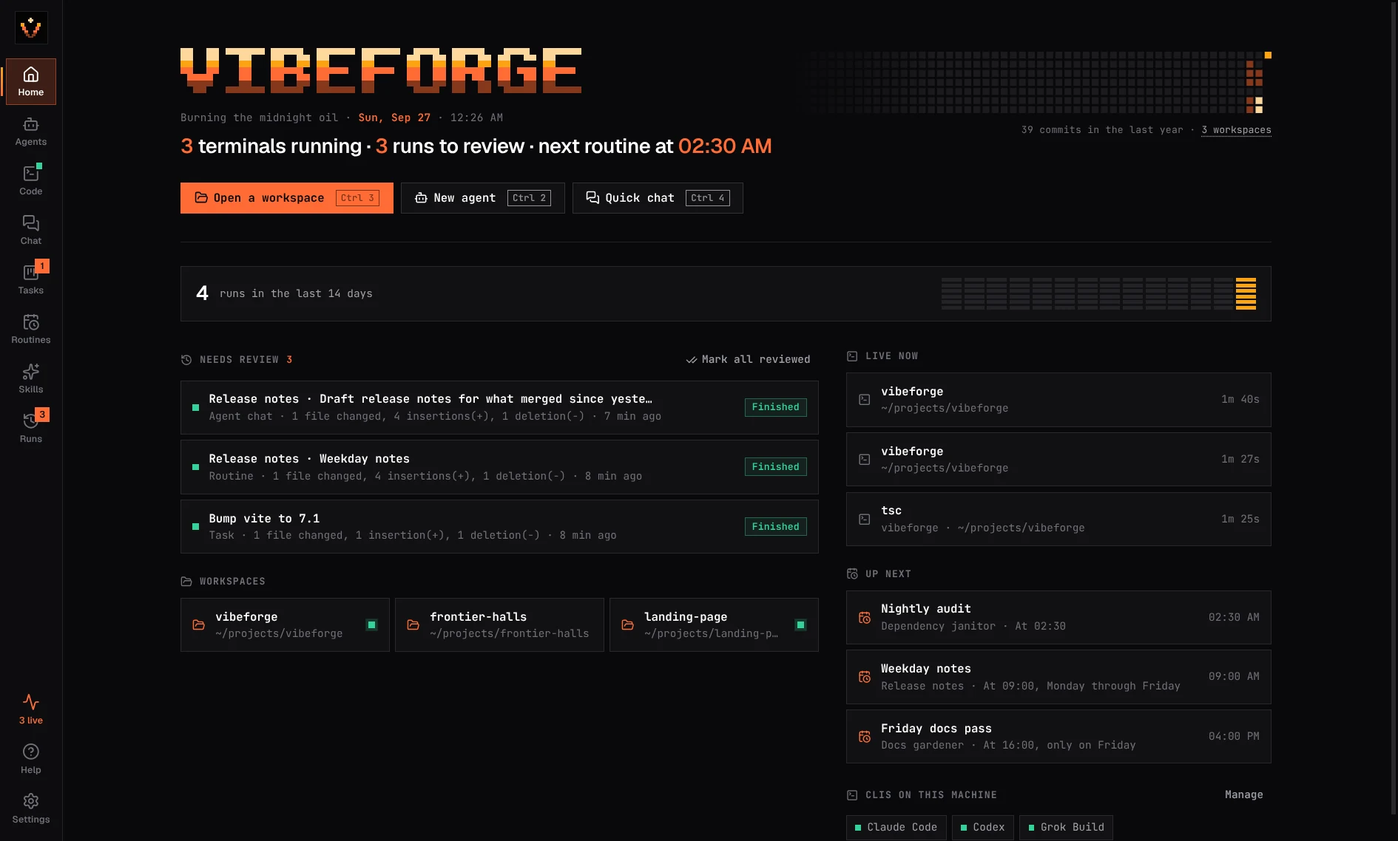
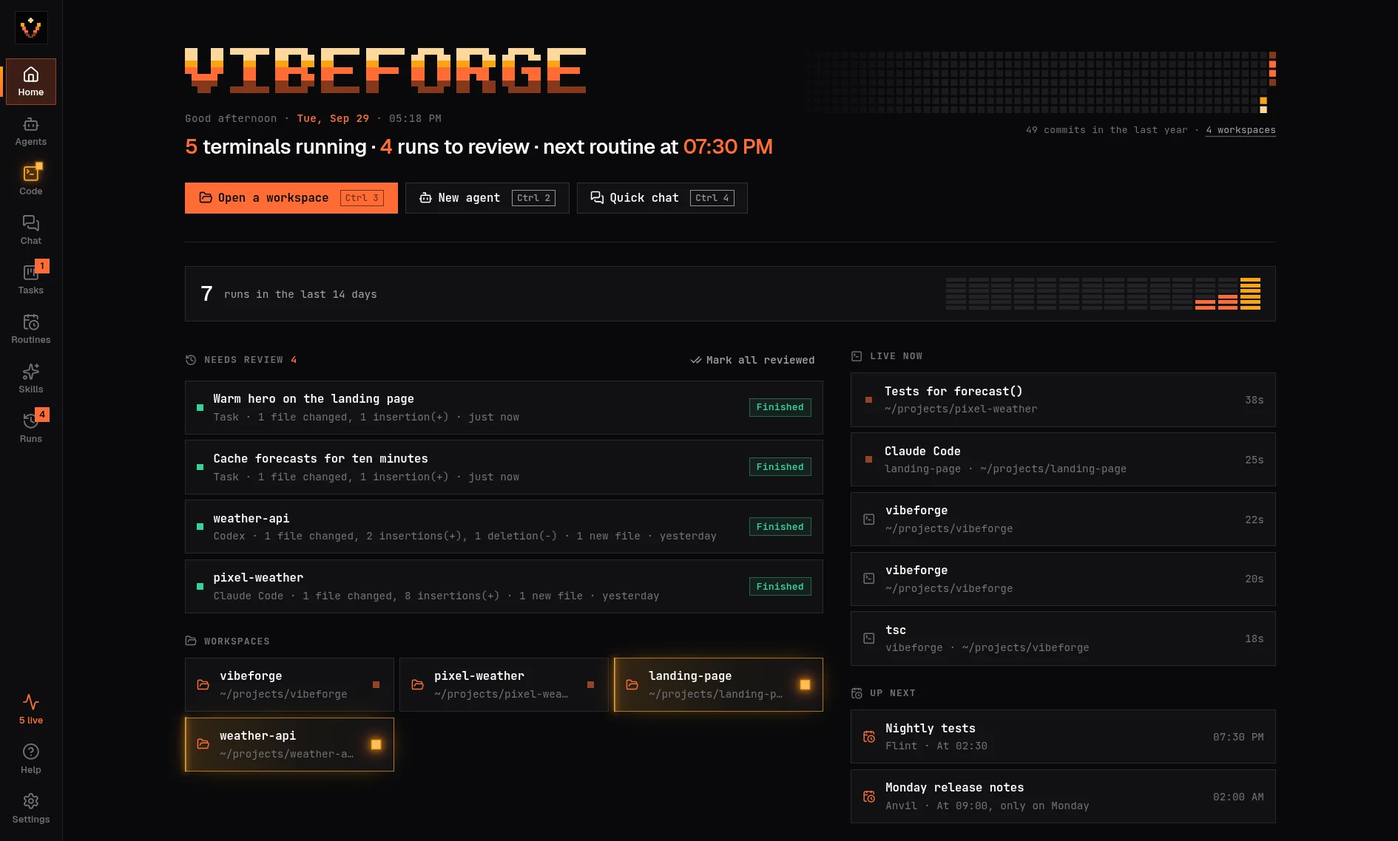
docs(site): make the page match the app, and retake the tour on 1.2 (#12)
## Summary

Every claim on vibe-forge.net and in the README, checked against the
code, then brought up to 1.2.0. Two commits: the facts and new cards,
then new tour screenshots.

**Wrong, now fixed**
- The updater "only asks GitHub for the newest release number": it also
fetches the release notes (`src/core/updates.ts`), which the Update
dialog shows.
- The Private card didn't mention the opt-in network features: plan
limits (Anthropic, xAI, Moonshot) and the GitHub graph through `gh`. It
now says anything that goes online is off until you turn it on.
- "Plain Ctrl V reaches the program": Ctrl+V pastes text; only an image
on its own reaches the program (`src/ui/terminal-keys.ts`), which is how
screenshots paste into Claude Code.
- "The prompt reaches the CLI as a single argument, nothing is typed":
true when the CLI has a prompt flag; Kimi, Crush and Hermes get it
pasted once (`planLaunch`).
- The keyboard list skipped Ctrl+K; it now follows the app's own
shortcut sheet, plus Ctrl+Z.

**Out of date, now current (1.1 and 1.2)**
- Code: links in a terminal open in the side browser, one page per
workspace (was "a browser dock for localhost").
- Runs and "under the hood": the diff is saved the moment a run ends.
- Two new cards filling a grid row: "It glows when it's your turn" (a
small animated mock of the waiting row, same values as the app's ember
glow) and "Undo, not 'are you sure?'". The glow card's sound and
[…]

diff --git a/site/index.html b/site/index.html
@@ -21,7 +21,7 @@
     <link rel="preconnect" href="https://fonts.googleapis.com" />
     <link rel="preconnect" href="https://fonts.gstatic.com" crossorigin />
     <link href="https://fonts.googleapis.com/css2?family=Geist:wght@400..700&family=JetBrains+Mono:ital,wght@0,400..800;1,400&display=swap" rel="stylesheet" />
-    <link rel="stylesheet" href="styles.css?v=0.8.0" />
+    <link rel="stylesheet" href="styles.css?v=1.2.0" />
   </head>
   <body>
     <svg class="sprite" aria-hidden="true" focusable="false">
@@ -316,7 +316,7 @@
             <div class="card-copy">
               <span class="card-icon"><svg><use href="#i-square-terminal" /></svg></span>
               <h3>Tiled like your desktop</h3>
-              <p>Split terminals side by side, a file tree that drops paths into the focused pane, and a browser dock for localhost.</p>
+              <p>Split terminals side by side, a file tree that drops paths into the focused pane, and a browser beside them: click a link in a terminal and it opens there, one page per workspace.</p>
             </div>
             <div class="art art-tiles">
               <div class="tile"><i>shell</i><code>npm run dev</code><code class="dim">➜ localhost:5173</code></div>
@@ -375,7 +375,7 @@
               <span class="card-icon"><svg><use href="#i-git-compare" /></svg></span>
               <h3>Review everything they touched</h3>
               <p>
-                Every run keeps its final screen, a transcript, the exact prompt and the git diff since it began. <b>Continue</b> reopens the very same
+                Every run keeps its final screen, a transcript, the exact prompt and the git diff since it began, saved the moment it ends so later edits stay out of it. <b>Continue</b> reopens the very same
                 session when the CLI printed one (<code>claude --resume</code>, <code>grok --resume</code>, …).
               </p>
             </div>
@@ -414,7 +414,7 @@
             <div class="card-copy">
               <span class="card-icon"><svg><use href="#i-terminal" /></svg></span>
               <h3>Real terminals, not a chat skin</h3>
-              <p>WebGL xterm, split and dragged into place. Plain <kbd>Ctrl</kbd> <kbd>V</kbd> reaches the program, so screenshots paste into Claude Code like in ghostty.</p>
+              <p>WebGL xterm, split and dragged into place. <kbd>Ctrl</kbd> <kbd>V</kbd> pastes text, and a screenshot on its own goes straight to the program, so images paste into Claude Code like in ghostty.</p>
             </div>
             <div class="art art-keys">
               <span class="keycap wide">Ctrl</span><span class="keycap-plus">+</span><span class="keycap">V</span>
@@ -425,7 +425,7 @@
             <div class="card-copy">
               <span class="card-icon"><svg><use href="#i-shield" /></svg></span>
               <h3>Private by construction</h3>
-              <p>No accounts, no keys, no telemetry. Agents, skills, routines and tasks are YAML and Markdown you can edit in Neovim.</p>
+              <p>No accounts, no keys, no telemetry. Anything that goes online, like plan limits or your GitHub graph, is off until you turn it on. Agents, skills, routines and tasks are YAML and Markdown you can edit in Neovim.</p>
             </div>
             <div class="art art-private">
               <span class="lock"><svg><use href="#i-lock" /></svg></span>
@@ -437,7 +437,7 @@
             <div class="card-copy">
               <span class="card-icon"><svg><use href="#i-refresh" /></svg></span>
               <h3>Updates itself, in plain sight</h3>
-              <p>When a release is out, Help gets a dot. Update shows the notes, runs the installer in a terminal you can watch, and restarts. The only thing it ever asks GitHub is the newest release number.</p>
+              <p>When a release is out, Help gets a dot. Update shows the notes, runs the installer in a terminal you can watch, and restarts. All it asks GitHub for is the newest release and its notes.</p>
             </div>
             <div class="art art-update" data-update-art>
               <div class="up-head"><b>Update VibeForge</b><span class="chip ok">1.2.1</span></div>
@@ -449,6 +449,30 @@
                 <div class="t-ok"><span>✓</span> VibeForge 1.2.1 is installed.</div>
               </div>
               <div class="up-foot"><span>Updated. Restart to start using 1.2.1.</span><span class="m-primary"><svg><use href="#i-rotate-ccw" /></svg>Restart</span></div>
+            </div>
+          </article>
+
+          <article class="card wide reveal" data-glow>
+            <div class="card-copy">
+              <span class="card-icon"><svg><use href="#i-activity" /></svg></span>
+              <h3>It glows when it's your turn</h3>
+              <p>When a CLI or agent goes quiet where you aren't looking, its workspace or chat lights up like an ember, and so does the view's icon in the rail. With VibeForge in the background, two soft knocks and a notification bring you there.</p>
+            </div>
+            <div class="art art-ember" aria-hidden="true">
+              <div class="em-row"><i class="em-px open"></i><b>pixel-weather</b><span>~/projects/pixel-weather</span></div>
+              <div class="em-row wants"><i class="em-px lit"></i><b>landing-page</b><span>Claude Code · your turn</span></div>
+              <div class="em-row"><i class="em-px work"></i><b>weather-api</b><span>Codex is working</span></div>
+            </div>
+          </article>
+
+          <article class="card reveal" data-glow>
+            <div class="card-copy">
+              <span class="card-icon"><svg><use href="#i-rotate-ccw" /></svg></span>
+              <h3>Undo, not "are you sure?"</h3>
+              <p>Deleting a chat, task, skill or routine happens at once. Undo on the toast, or <kbd>Ctrl</kbd> <kbd>Z</kbd>, puts it back.</p>
+            </div>
+            <div class="art art-undo" aria-hidden="true">
+              <div class="undo-toast"><span>Deleted Old notes</span><b>Undo</b></div>
             </div>
           </article>
 
@@ -471,7 +495,7 @@
         <div class="section-head reveal">
           <span class="kicker"><b>03</b> Tour</span>
           <h2>Not a mockup. The real desk.</h2>
-          <p>Screenshots of VibeForge 0.7.0 on a working day, in the Apex Forge theme.</p>
+          <p>Screenshots of VibeForge 1.2.0 on a working day, in the Apex Forge theme.</p>
         </div>
         <div class="tour reveal" data-tour>
           <div class="tour-tabs" role="tablist" aria-label="Screenshots">
@@ -481,13 +505,13 @@
           </div>
           <div class="tour-frame">
             <figure class="shot is-on">
-              <img src="assets/app-home.webp?v=0.7.0" width="1890" height="1138" alt="VibeForge's Home: the pixel wordmark beside a year of commits, three terminals running, three runs to review, a 14-day run chart, workspaces, the routines coming up next and the CLIs on this machine." />
+              <img src="assets/app-home.webp?v=1.2.0" width="1890" height="1138" alt="VibeForge's Home: the pixel wordmark beside a year of commits, five terminals running, four runs to review led by their projects, a 14-day run chart, workspaces with two glowing because their CLIs are waiting, the terminals live now and the routines coming up next." />
             </figure>
             <figure class="shot">
-              <img src="assets/app-code.webp?v=0.7.0" width="1890" height="1138" alt="Code mode: three tiled terminals in a project with git log, a diffstat and a TypeScript watch that its title bar names, split from the toolbar, with the file tree on the right." loading="lazy" />
+              <img src="assets/app-code.webp?v=1.2.0" width="1890" height="1138" alt="Code mode on the VibeForge repository: three tiled terminals with git log and its release tags, a diffstat from 1.1.0 to 1.2.0 in the focused pane and a TypeScript watch its title bar names, the unfocused panes dimmed, two other workspaces glowing in the list, and the file tree on the right." loading="lazy" />
             </figure>
             <figure class="shot">
-              <img src="assets/app-tasks.webp?v=0.7.0" width="1890" height="1138" alt="The task board with cards in To do, Review and Done, each assigned to an agent and a workspace." loading="lazy" />
+              <img src="assets/app-tasks.webp?v=1.2.0" width="1890" height="1138" alt="The task board with cards in To do, Running, Review and Done, each assigned to an agent and a workspace, the finished ones with their diff." loading="lazy" />
             </figure>
           </div>
           <p class="tour-caption" data-tour-caption><b>Home</b> What's live, what finished and needs a look, and what runs next.</p>
@@ -505,7 +529,7 @@
           <li class="reveal">
             <span class="flow-node">01</span>
             <h3>One argument, intact</h3>
-            <p>The brief, memory, skills and your prompt reach the CLI as a single argument. Nothing is typed into a TUI line by line.</p>
+            <p>The brief, memory, skills and your prompt reach the CLI as a single argument. The few CLIs without a prompt flag get it pasted in once, never typed line by line.</p>
           </li>
           <li class="reveal">
             <span class="flow-node">02</span>
@@ -515,7 +539,7 @@
           <li class="reveal">
             <span class="flow-node">03</span>
             <h3>A record when it ends</h3>
-            <p>Final screen, transcript and a git snapshot land in the run folder. Stop hangs up the process group, like closing a window.</p>
+            <p>Final screen, transcript and the full diff land in the run folder, frozen as it ends. Stop hangs up the process group, like closing a window.</p>
           </li>
           <li class="reveal">
             <span class="flow-node">04</span>
@@ -581,11 +605,11 @@
               <h2>Keys, like the rest of your desktop.</h2>
             </div>
             <dl class="keys">
+              <div><dt><kbd>Ctrl</kbd><kbd>K</kbd></dt><dd>Go to any agent, chat, workspace, task or skill</dd></div>
               <div><dt><kbd>Ctrl</kbd><kbd>1</kbd>…<kbd>8</kbd></dt><dd>Home, Agents, Code, Chat, Tasks, Routines, Skills, Runs</dd></div>
-              <div><dt><kbd>Ctrl</kbd><kbd>Shift</kbd><kbd>C</kbd>/<kbd>V</kbd></dt><dd>Copy and paste in a terminal</dd></div>
+              <div><dt><kbd>Ctrl</kbd><kbd>Shift</kbd><kbd>D</kbd>/<kbd>E</kbd></dt><dd>A new terminal on the right, or below</dd></div>
               <div><dt><kbd>Ctrl</kbd><kbd>Shift</kbd><kbd>M</kbd></dt><dd>Maximize the focused pane</dd></div>
-              <div><dt><kbd>Ctrl</kbd><kbd>Shift</kbd><kbd>B</kbd></dt><dd>Collapse the side panel</dd></div>
-              <div><dt><kbd>Ctrl</kbd><kbd>S</kbd></dt><dd>Save the open brief, memory or skill</dd></div>
+              <div><dt><kbd>Ctrl</kbd><kbd>Z</kbd></dt><dd>Undo a delete, while its toast is up</dd></div>
               <div><dt><kbd>Ctrl</kbd><kbd>Shift</kbd><kbd>/</kbd></dt><dd>Every shortcut on one sheet</dd></div>
             </dl>
           </div>
@@ -690,6 +714,6 @@ npm run build && ./scripts/vibeforge</pre>
       </p>
     </footer>
 
-    <script src="main.js?v=0.8.0" defer></script>
+    <script src="main.js?v=1.2.0" defer></script>
   </body>
 </html>

diff --git a/site/styles.css b/site/styles.css
@@ -1887,6 +1887,126 @@ h2 {
   font: 12px var(--mono);
 }
 
+/* ember: the "your turn" glow, as the app draws it (src/ui/styles/app.css, "ember glow") */
+
+.art-ember {
+  flex-direction: column;
+  gap: 6px;
+  padding: 14px;
+  border: 1px solid var(--line);
+  background: var(--bg);
+}
+
+.em-row {
+  position: relative;
+  display: grid;
+  grid-template-columns: 9px auto 1fr;
+  align-items: center;
+  gap: 12px;
+  padding: 10px 12px;
+  border: 1px solid transparent;
+  color: var(--fg-2);
+}
+
+.em-row b {
+  color: var(--fg);
+  font-weight: 600;
+}
+
+.em-row span {
+  overflow: hidden;
+  color: var(--fg-3);
+  text-overflow: ellipsis;
+  white-space: nowrap;
+}
+
+.em-row.wants {
+  border-color: var(--focus-line);
+  background: linear-gradient(90deg, color-mix(in srgb, var(--accent-2) 14%, transparent), color-mix(in srgb, var(--accent-2) 4%, transparent) 55%, transparent);
+  box-shadow: 0 0 26px -14px var(--accent-2);
+}
+
+.em-row.wants span {
+  color: var(--accent-2);
+}
+
+.em-row.wants::before {
+  content: "";
+  position: absolute;
+  left: -1px;
+  top: -1px;
+  bottom: -1px;
+  width: 2px;
+  background: color-mix(in srgb, var(--accent-2) 70%, #ffffff);
+  box-shadow: 0 0 6px 1px color-mix(in srgb, var(--accent-2) 70%, transparent), 0 0 14px 2px color-mix(in srgb, var(--accent) 35%, transparent);
+  animation: em-edge 2.2s ease-in-out infinite;
+}
+
+.em-px {
+  width: 7px;
+  height: 7px;
+  justify-self: center;
+  background: color-mix(in srgb, var(--accent) 55%, transparent);
+}
+
+.em-px.work {
+  background: var(--accent);
+  box-shadow: 0 0 0 1px color-mix(in srgb, var(--accent) 45%, transparent), 0 0 6px 0 color-mix(in srgb, var(--accent) 55%, transparent);
+  animation: em-work 2.4s ease-in-out infinite;
+}
+
+.em-px.lit {
+  width: 9px;
+  height: 9px;
+  background: color-mix(in srgb, var(--accent-2) 70%, #ffffff);
+  box-shadow: 0 0 0 1px color-mix(in srgb, var(--accent-2) 90%, transparent), 0 0 8px 2px color-mix(in srgb, var(--accent-2) 75%, transparent), 0 0 20px 5px color-mix(in srgb, var(--accent) 45%, transparent);
+  animation: em-breathe 2.2s ease-in-out infinite;
+}
+
+@keyframes em-breathe {
+  50% {
+    box-shadow: 0 0 0 1px color-mix(in srgb, var(--accent-2) 55%, transparent), 0 0 4px 0 color-mix(in srgb, var(--accent-2) 40%, transparent), 0 0 10px 1px color-mix(in srgb, var(--accent) 16%, transparent);
+  }
+}
+
+@keyframes em-work {
+  50% {
+    box-shadow: 0 0 0 1px color-mix(in srgb, var(--accent) 20%, transparent), 0 0 2px 0 color-mix(in srgb, var(--accent) 25%, transparent);
+  }
+}
+
+@keyframes em-edge {
+  50% {
+    opacity: 0.55;
+  }
+}
+
+/* undo: the toast that replaced "are you sure?" */
+
+.art-undo {
+  align-items: center;
+  justify-content: center;
+  min-height: 110px;
+}
+
+.undo-toast {
+  display: flex;
+  align-items: center;
+  gap: 18px;
+  padding: 12px 12px 12px 16px;
+  border: 1px solid var(--line-2);
+  background: var(--bg-raised);
+  box-shadow: 0 18px 40px -20px rgba(0, 0, 0, 0.8);
+}
+
+.undo-toast b {
+  padding: 5px 10px;
+  border: 1px solid var(--sel-line);
+  background: var(--sel-fill);
+  color: var(--fg);
+  font-weight: 600;
+}
+
 /* agent */
 
 .art-agent {

diff --git a/site/main.js b/site/main.js
@@ -737,7 +737,7 @@ function setupPausing() {
 
 const CAPTIONS = [
   ["Home", "What's live, what finished and needs a look, and what runs next."],
-  ["Code", "Shells and CLIs tiled side by side, a file tree, and a browser dock for your dev server."],
+  ["Code", "Shells and CLIs tiled side by side, the ones you aren't in stepping back, a file tree, and a browser for any link."],
   ["Tasks", "Writing a task starts nothing. Execute does, and the result lands in Review with its diff."],
 ];
 

diff --git a/README.md b/README.md
@@ -61,12 +61,12 @@ npm run build       # production build
 | --- | --- |
 | **Home** | What's live, what finished and needs review, what fires next, and a year of your commits drawn in pixels. |
 | **Agents** | Named teammates with a brief, memory, skills and allowed folders. Chats with an agent are real terminals. Switch its engine from Claude to Codex to Grok and the teammate stays the same. |
-| **Code** | A workspace with tiled terminals that you can split, drag to rearrange and maximize, a file tree that inserts paths, and a browser dock for your dev server. Type `claude`, `codex` or any CLI in a terminal: its title bar says so, and from the moment it starts until you're back at the prompt it is recorded as a run (transcript and git diff). A workspace whose CLI goes quiet or finishes while you're looking elsewhere glows until you open it. Drag workspaces to reorder them and jump between them with <kbd>Alt</kbd>+<kbd>1</kbd>…<kbd>9</kbd>. Layouts are remembered per workspace. |
+| **Code** | A workspace with tiled terminals that you can split, drag to rearrange and maximize, a file tree that inserts paths, and a browser beside them: click an http(s) link in a terminal (your dev server's, say) and it opens there, each workspace keeping its own page. Type `claude`, `codex` or any CLI in a terminal: its title bar says so, and from the moment it starts until you're back at the prompt it is recorded as a run (transcript and git diff). A workspace whose CLI goes quiet or finishes while you're looking elsewhere glows like an ember until you open it, and so does Code's icon in the rail. In a split, the terminals you aren't typing in dim a little. Drag workspaces to reorder them and jump between them with <kbd>Alt</kbd>+<kbd>1</kbd>…<kbd>9</kbd>. Layouts are remembered per workspace. |
 | **Chat** | Throwaway conversations in an empty scratch folder. |
 | **Tasks** | A board. Writing or assigning a task starts nothing; **Execute** does. A finished run lands in Review with its diff. |
 | **Routines** | Cron or interval schedules that open a fresh agent run while VibeForge is open. Missed slots are shown, never replayed. |
 | **Skills** | Reusable `SKILL.md` procedures you install on agents. |
-| **Runs** | Every CLI you typed into a terminal and every process VibeForge started: final screen, transcript, prompt, and the diff since it began. **Continue** reopens the exact session. |
+| **Runs** | Every CLI you typed into a terminal and every process VibeForge started, a day at a time: final screen, transcript, prompt, and the full diff since it began, saved the moment it ended so later edits stay out of it. **Continue** reopens the exact session. |
 
 The pulse at the bottom of the rail counts the terminals running and, underneath, six squares that follow whichever coding plan is closest to its limit. Click it for **plan limits**: each plan's windows (Claude's 5-hour and 7-day, Grok's credits by product, Kimi's weekly and 5-hour, Codex's from its logs) with the time until they reset, the last day as a line, and when you'll run out at the current pace. The **Tokens** tab has each CLI's tokens today and this week, read from the logs Claude Code, Codex, Grok Build and Gemini CLI already keep on this machine; nothing is sent anywhere for those.
 
@@ -74,13 +74,13 @@ Plan limits for Claude, Grok and Kimi are off until you turn them on in Settings
 
 The graph on Home is your commits in your workspaces, read with git. If you'd rather see your GitHub contribution graph, pick **GitHub** in Settings → Usage and activity: VibeForge then asks GitHub for it through the `gh` CLI you're signed in to, at most every 30 minutes, and keeps no token. That's off until you choose it.
 
-It keeps your place. Each view reopens where you left it, the same agent, chat or task with its list scrolled where it was, including after a restart. A half-written message or an unsaved brief, task or skill waits for you until you send it, save it or press **Discard**. <kbd>Ctrl</kbd>+<kbd>K</kbd> (or the logo at the top of the rail) jumps to any agent, chat, workspace, task, routine or skill by typing part of its name.
+It keeps your place. Each view reopens where you left it, the same agent, chat or task with its list scrolled where it was, including after a restart. A half-written message or an unsaved brief, task or skill waits for you until you send it, save it or press **Discard**. <kbd>Ctrl</kbd>+<kbd>K</kbd> (or the logo at the top of the rail) jumps to any agent, chat, workspace, task, routine or skill by typing part of its name. Deleting a chat, task, skill or routine happens at once, with **Undo** on the toast (or <kbd>Ctrl</kbd>+<kbd>Z</kbd>) for a few seconds; only one that is still running asks first.
 
 When an agent or CLI goes quiet while you're looking elsewhere, it glows until you look: the workspace in Code, the agent and its chat in Agents, with a dot on the rail. Short tones, made on your machine, say the same: two soft knocks when it's your turn, a rising chime when a task, routine or typed CLI finishes, a lower one when it fails, and a chirp when dictation starts and stops. By default they play only while VibeForge is in the background, never while Omarchy's Do Not Disturb is on (voice aside), and each one can be turned off or previewed in **Settings → Sounds**.
 
 It lives in the tray, next to Steam and the rest in Omarchy's bar (right-click the tray's arrow to pin it to the bar itself). A click opens the window; right-click for sounds, notifications, **Start at login, in the tray**, and Quit. The icon gets an amber corner while something is waiting for you. Closing the window leaves VibeForge running there, so terminals keep going and routines keep firing; **Settings → Tray and startup** changes any of that. Start at login adds an entry to `~/.config/autostart`, the same way Omarchy starts other tray apps, and is off until you turn it on.
 
-It looks like the rest of Omarchy: square corners, JetBrains Mono with Geist headings, flat panels, and pixel art in place of glows. It wears your Omarchy theme: colours come from the active theme (`colors.toml` plus the ghostty palette for terminals) and change live when you switch themes, pixel wordmark included.
+It looks like the rest of Omarchy: square corners, JetBrains Mono with Geist headings, flat panels and pixel art, with light kept for what's alive: a working CLI is a slow ember, and one waiting for you glows. It wears your Omarchy theme: colours come from the active theme (`colors.toml` plus the ghostty palette for terminals) and change live when you switch themes, pixel wordmark included.
 
 It speaks English, Deutsch, Español, Français, Português (Brasil), 日本語 and 简体中文, following your system language unless you pick one in Settings. The tour, menus, tooltips and empty screens are translated so far; some other text is still English. Translations live in `src/ui/i18n/`, one file per language, and the typecheck fails if one is missing a line.
 
@@ -141,7 +141,8 @@ o.bind("SUPER + ALT + V", "VibeForge: stop talking", "vibeforge --voice stop", {
   tasks/<id>.yaml
   engines.json  settings.json  workspaces.json  layouts/
 ~/.local/share/vibeforge/
-  runs/<stamp>_<slug>/          meta.json, preamble.md, terminal.ansi, transcript.txt, scrollback.txt, git.txt
+  runs/<stamp>_<slug>/          meta.json, preamble.md, terminal.ansi, transcript.txt, scrollback.txt, git.txt, diff.patch
+  trash/                        deleted chats, tasks, skills and routines, kept 30 s for Undo
   scratch/<chat>/               Chat mode working folders
   models/  voices/              whisper models and Piper voices downloaded in Settings → Voice
 ```
@@ -150,7 +151,7 @@ Override the roots with `VIBEFORGE_CONFIG` and `VIBEFORGE_DATA`. VibeForge's own
 
 ## Keys
 
-<kbd>Ctrl</kbd>+<kbd>K</kbd> go to anything (<kbd>Ctrl</kbd>+<kbd>Shift</kbd>+<kbd>K</kbd> inside a terminal) · <kbd>Ctrl</kbd>+<kbd>1</kbd>…<kbd>8</kbd> views · <kbd>Alt</kbd>+<kbd>1</kbd>…<kbd>9</kbd> workspaces · <kbd>Ctrl</kbd>+<kbd>,</kbd> settings · <kbd>Alt</kbd>+<kbd>←</kbd>/<kbd>→</kbd> or the mouse's side buttons back and forward · <kbd>↑</kbd>/<kbd>↓</kbd> move through the list you're in · <kbd>Ctrl</kbd>+<kbd>Shift</kbd>+<kbd>B</kbd> collapse the side panel · <kbd>Ctrl</kbd>+<kbd>Shift</kbd>+<kbd>D</kbd>/<kbd>E</kbd> new terminal right/below · <kbd>Ctrl</kbd>+<kbd>Shift</kbd>+<kbd>W</kbd> close it · <kbd>Ctrl</kbd>+<kbd>Shift</kbd>+<kbd>M</kbd> maximize the focused pane · <kbd>Ctrl</kbd>+<kbd>Shift</kbd>+<kbd>/</kbd> every shortcut · <kbd>Ctrl</kbd>+<kbd>S</kbd> save · <kbd>Esc</kbd> close · <kbd>Ctrl</kbd>+<kbd>Shift</kbd>+<kbd>Space</kbd> dictate (hold, then let go) · in terminals <kbd>Ctrl</kbd>+<kbd>C</kbd> copies the selection (with nothing selected it interrupts the program) and <kbd>Ctrl</kbd>+<kbd>V</kbd> pastes (an image on its own goes to the program, so Claude Code can paste it); Omarchy's <kbd>Super</kbd>+<kbd>C</kbd>/<kbd>V</kbd>, <kbd>Ctrl</kbd>+<kbd>Insert</kbd>/<kbd>Shift</kbd>+<kbd>Insert</kbd> and <kbd>Ctrl</kbd>+<kbd>Shift</kbd>+<kbd>C</kbd>/<kbd>V</kbd> work too · drop files on a terminal to insert their paths.
+<kbd>Ctrl</kbd>+<kbd>K</kbd> go to anything (<kbd>Ctrl</kbd>+<kbd>Shift</kbd>+<kbd>K</kbd> inside a terminal) · <kbd>Ctrl</kbd>+<kbd>1</kbd>…<kbd>8</kbd> views · <kbd>Alt</kbd>+<kbd>1</kbd>…<kbd>9</kbd> workspaces · <kbd>Ctrl</kbd>+<kbd>,</kbd> settings · <kbd>Alt</kbd>+<kbd>←</kbd>/<kbd>→</kbd> or the mouse's side buttons back and forward · <kbd>↑</kbd>/<kbd>↓</kbd> move through the list you're in · <kbd>Ctrl</kbd>+<kbd>Shift</kbd>+<kbd>B</kbd> collapse the side panel · <kbd>Ctrl</kbd>+<kbd>Shift</kbd>+<kbd>D</kbd>/<kbd>E</kbd> new terminal right/below · <kbd>Ctrl</kbd>+<kbd>Shift</kbd>+<kbd>W</kbd> close it · <kbd>Ctrl</kbd>+<kbd>Shift</kbd>+<kbd>M</kbd> maximize the focused pane · <kbd>Ctrl</kbd>+<kbd>Shift</kbd>+<kbd>/</kbd> every shortcut · <kbd>Ctrl</kbd>+<kbd>S</kbd> save · <kbd>Ctrl</kbd>+<kbd>Z</kbd> undo a delete while its toast is up · <kbd>Esc</kbd> close · <kbd>Ctrl</kbd>+<kbd>Shift</kbd>+<kbd>Space</kbd> dictate (hold, then let go) · in terminals <kbd>Ctrl</kbd>+<kbd>C</kbd> copies the selection (with nothing selected it interrupts the program) and <kbd>Ctrl</kbd>+<kbd>V</kbd> pastes (an image on its own goes to the program, so Claude Code can paste it); Omarchy's <kbd>Super</kbd>+<kbd>C</kbd>/<kbd>V</kbd>, <kbd>Ctrl</kbd>+<kbd>Insert</kbd>/<kbd>Shift</kbd>+<kbd>Insert</kbd> and <kbd>Ctrl</kbd>+<kbd>Shift</kbd>+<kbd>C</kbd>/<kbd>V</kbd> work too · drop files on a terminal to insert their paths.
 
 In Code, drag a pane by its title bar onto another pane: the middle swaps them, an edge docks it on that side. Double-click a title bar to maximize. Right-click a view in the rail to hide it; **Settings → Rail** shows it again and sets the order. Side panels resize from their edge and collapse to a strip. **Help** in the rail replays the welcome tour, checks for updates, copies diagnostics, and opens bug reports and feature ideas as GitHub issues with your versions filled in; nothing is sent from the app.
 
